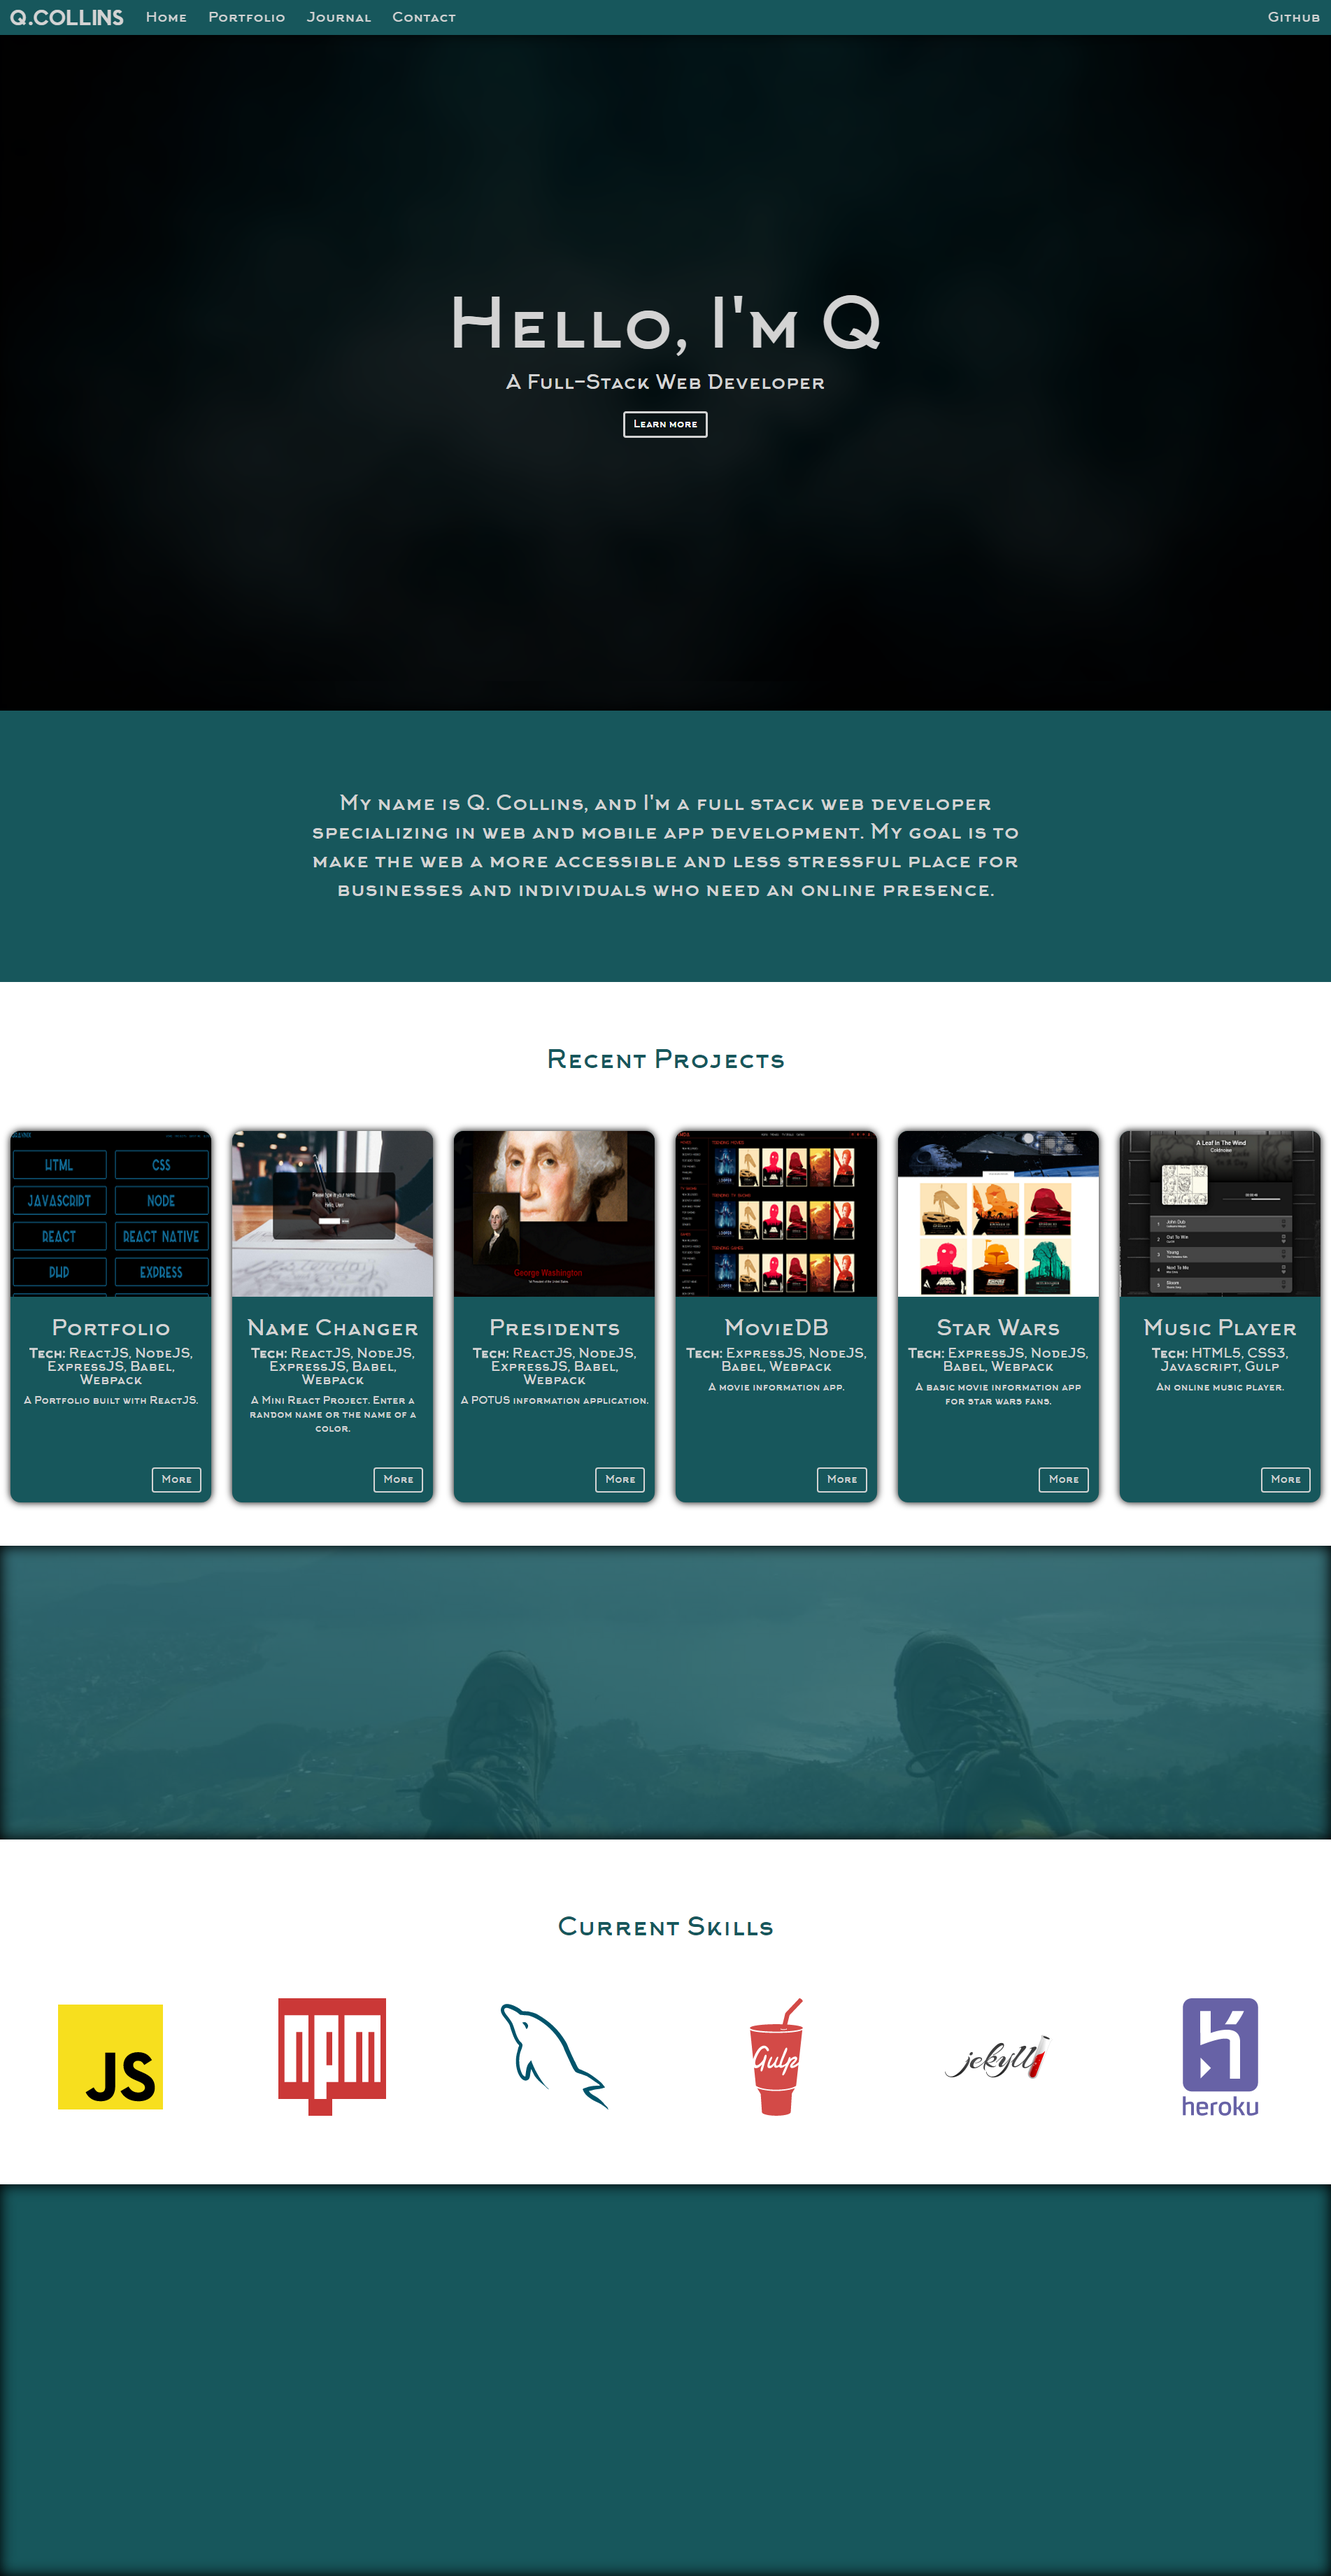
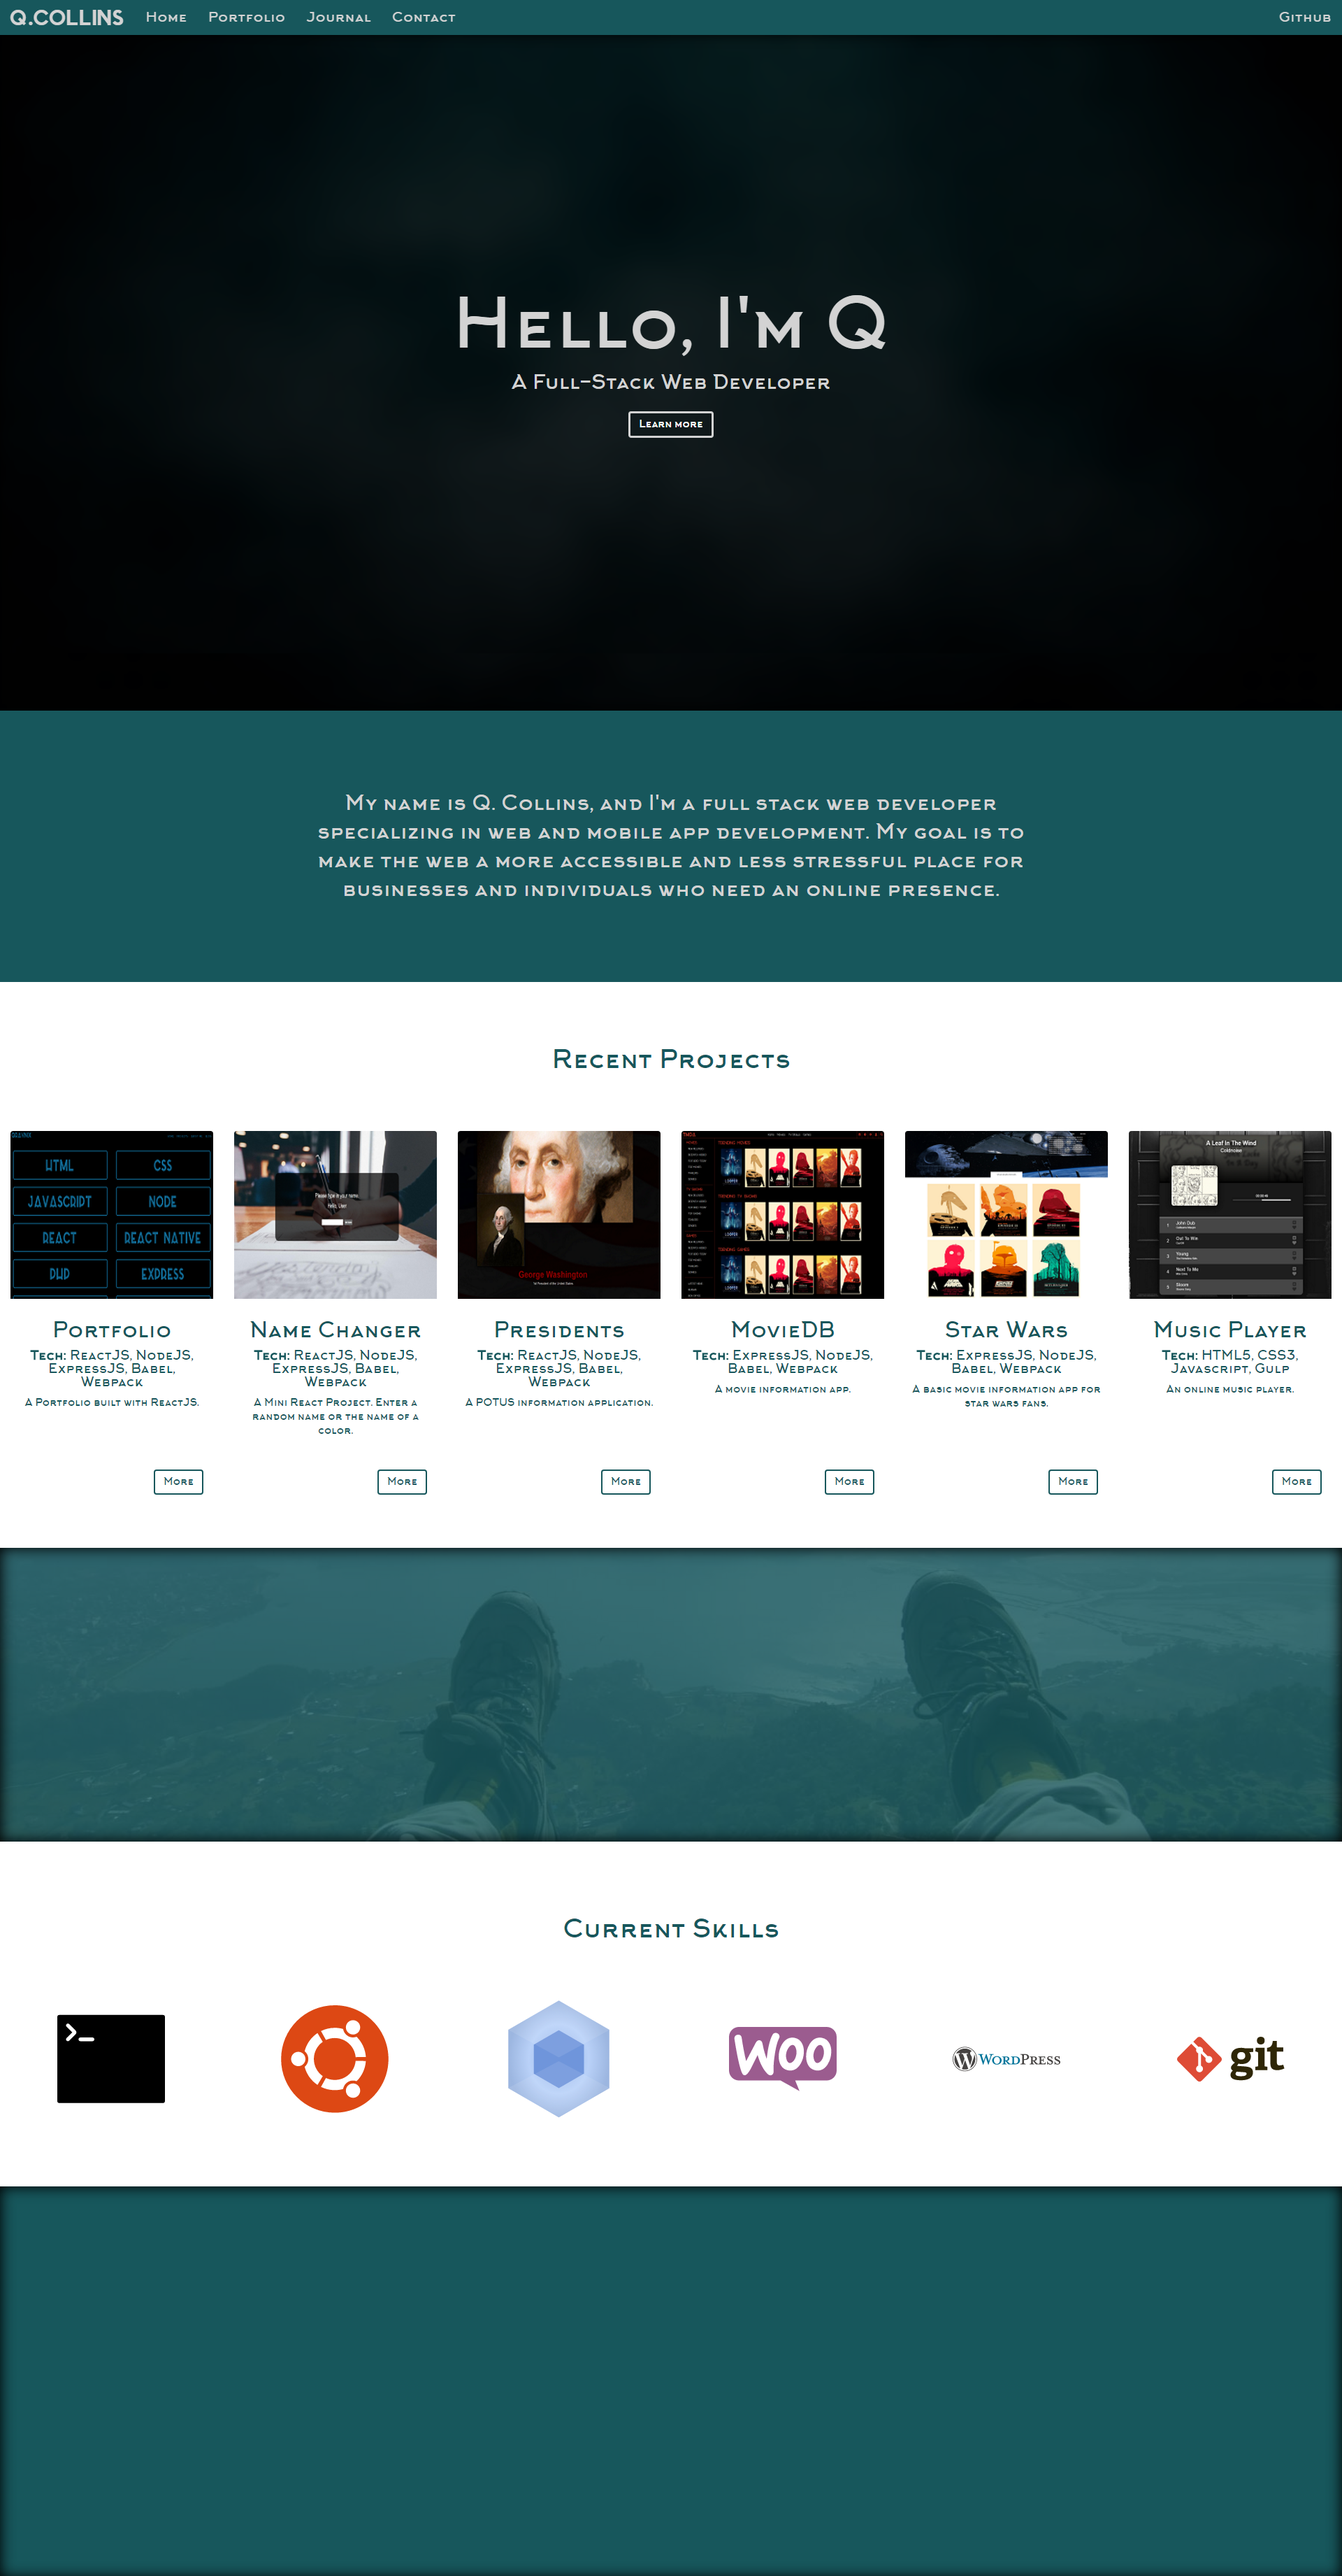
testimonials and footer

diff --git a/src/components/Home/style.css b/src/components/Home/style.css
@@ -5,9 +5,9 @@
     position: relative;
 }
 
-.Home button {
+.Home button, .Home button:hover, .Home button:active, .Home button:focus {
     background-color: transparent;
-    border: 2px solid lightgrey;
+    border: 2px solid rgba(23, 87, 92, 1);;
     transition: 0.1s ease-in-out;
 }
 
@@ -141,18 +141,17 @@ section {
 }
 
 .thumbnail {
-    background-color: rgba(23, 87, 92, 1);
+
     padding-top: 1em;
     border: 0em solid rgba(23, 87, 92, 1);
-    border-radius: 1em;
-    box-shadow: 0px 0px 15px 0px black;
+
     padding: 0;
     overflow: hidden;
     position: relative;
 }
 
 .thumbnail * {
-    color: lightgrey;
+    color: rgba(23, 87, 92, 1);
     text-align: center;
 }
 
@@ -167,6 +166,15 @@ section {
 .thumbnail .caption button {
     position: absolute;
     bottom: 0;
+    color: rgba(23, 87, 92, 1);
+    right: 0;
+    margin: 0em 1em 1em 0em;
+}
+
+.thumbnail .caption button:hover, .thumbnail .caption button:active, .thumbnail .caption button:focus {
+    position: absolute;
+    bottom: 0;
+    color: rgba(23, 87, 92, 1);
     right: 0;
     margin: 0em 1em 1em 0em;
 }
